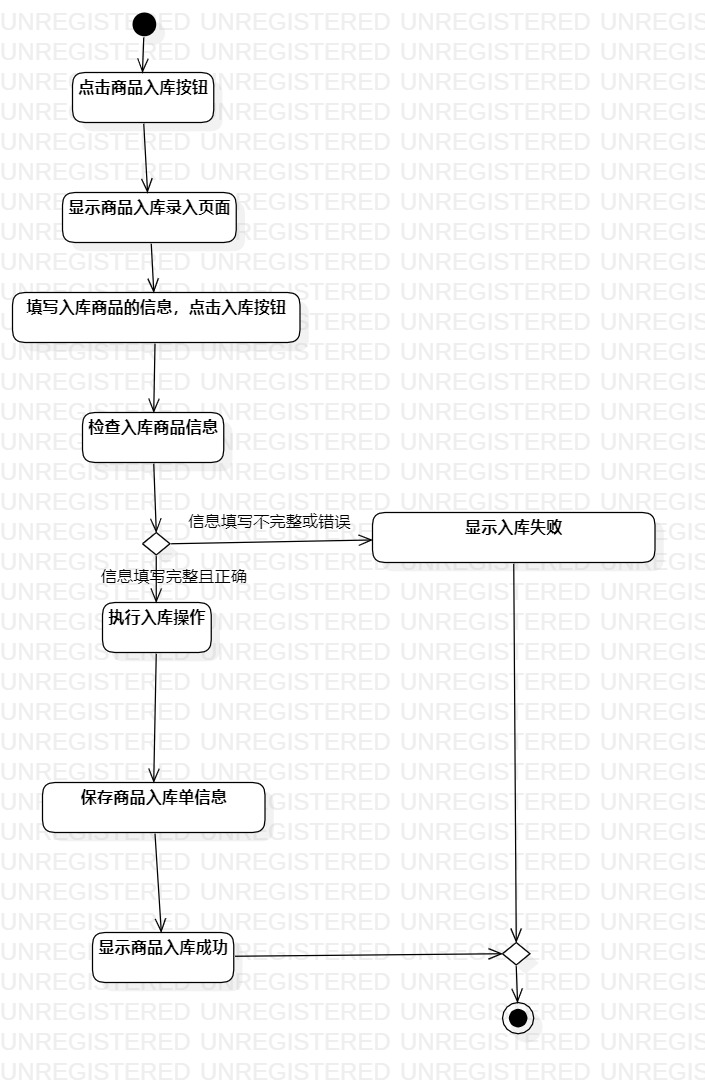
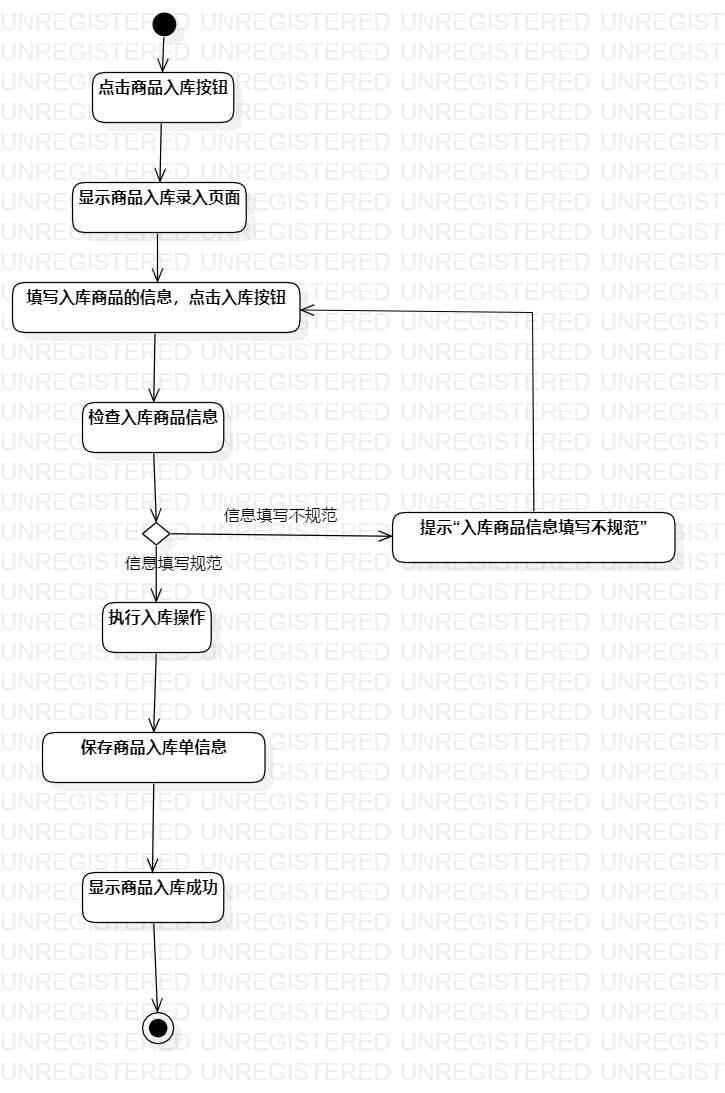
修改活动图和lab2.md

diff --git a/students/1714080902331/lab2.md b/students/1714080902331/lab2.md
@@ -36,9 +36,11 @@
 基本流程  | 1. 小卖部库存管理员点击商品入库按钮；  |*用例执行成功的步骤*    
 ~| 2. 系统显示商品入库录入页面；  |   
 ~| 3. 小卖部库存管理员填写入库商品的信息，点击入库按钮；  |   
-~| 4. 系统检查入库商品信息完整且正确，执行入库操作，保存商品入库单信息；  |   
-~| 5. 系统显示商品入库成功。  |  
-扩展流程  | 4.1 系统检查发现商品入库信息填写不完整或有误或执行入库操作失败，系统显示入库失败。 |*用例执行失败*    
+~| 4. 系统检查入库商品信息填写规范，执行入库操作；  |
+~| 5. 系统保存商品入库单信息。  |   
+~| 6. 系统显示商品入库成功。  | 
+
+扩展流程  | 4.1 系统检查发现商品入库信息填写不规范，系统提示“入库商品信息填写不规范”，返回步骤3。 |*用例执行失败*    
 
 ## 表2：商品出库用例规约 
 
@@ -50,9 +52,11 @@
 基本流程  | 1. 小卖部库存管理员点击商品出库按钮；  |*用例执行成功的步骤*    
 ~| 2. 系统显示商品出库录入页面；  |   
 ~| 3. 小卖部库存管理员填写出库商品的信息，点击出库按钮；  |   
-~| 4. 系统检查出库商品信息完整且正确，执行出库操作，保存商品出库单信息；  |   
-~| 5. 系统显示商品出库成功。  |  
-扩展流程  | 4.1 系统检查发现商品出库信息填写不完整或有误或执行出库操作失败，系统显示出库失败。 |*用例执行失败*   
+~| 4. 系统检查出库商品信息填写规范，执行出库操作；  |   
+~| 5. 系统查询商品库存信息，发现商品存在且库存数量不小于出库数量，保存商品出库单信息；  |
+~| 6. 系统显示商品出库成功。  |    
+扩展流程  | 4.1 系统检查发现商品出库信息填写不规范，提示“出库商品信息填写不规范”，返回步骤3。 |
+~| 5.1 系统查询商品库存信息，发现商品不存在或库存数量小于出库数量，显示商品出库失败。 |*用例执行失败*   
 
 ## 表3：查询库存用例规约 
 
@@ -65,5 +69,6 @@
 ~| 2. 系统显示查询库存功能页面；  |   
 ~| 3. 小卖部库存管理员填写要查询的商品信息，点击查询按钮；  |
 ~| 4. 系统检查商品名称不为空，查询商品信息。  |   
-~| 5. 系统显示查询商品的库存信息页面。  |   
-扩展流程  | 4.1 系统检查商品名称为空，提示“商品名称不能为空”。 |*用例执行失败*   
+~| 5. 系统查询发现商品存在，显示查询商品的库存信息页面。  |   
+扩展流程  | 4.1 系统检查商品名称为空，提示“商品名称不能为空”。 |
+~| 5.1 系统查询发现商品不存在，显示“商品不存在”。  | *用例执行失败*   
